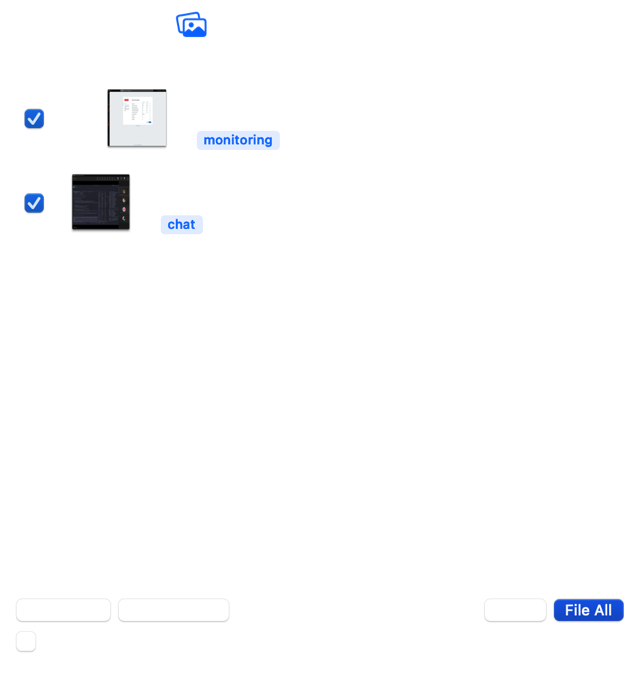
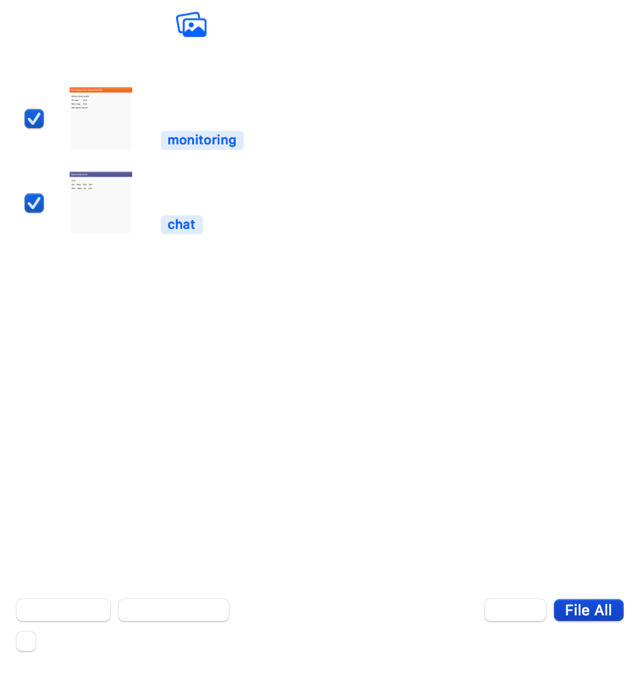
Prepare for open source: license, contributing guide, CI, sanitized examples
Replaced internal hostnames and product names in tests, comments and the README
with generic placeholders, and regenerated the preview image from synthetic
screenshots so no work content is published.

Changed region(s): [[0.0938, 0.1233, 0.4375, 0.2467], [0.0938, 0.2467, 0.2188, 0.3392]]

diff --git a/Sources/shots-selftest/main.swift b/Sources/shots-selftest/main.swift
@@ -90,7 +90,7 @@ name = named(keycloak, "keycloak", extra: [], isCapture: true)
 equal(name.folder, "auth", "login page goes to auth")
 
 let shell = facts([
-    "deploy@web-01:~$ docker exec -it app cat /azurefunctionshost",
+    "deploy@web-01:~$ docker exec -it app cat /etc/app.conf",
     "sudo apt update",
 ])
 name = named(shell, "shell", extra: [], isCapture: true)
